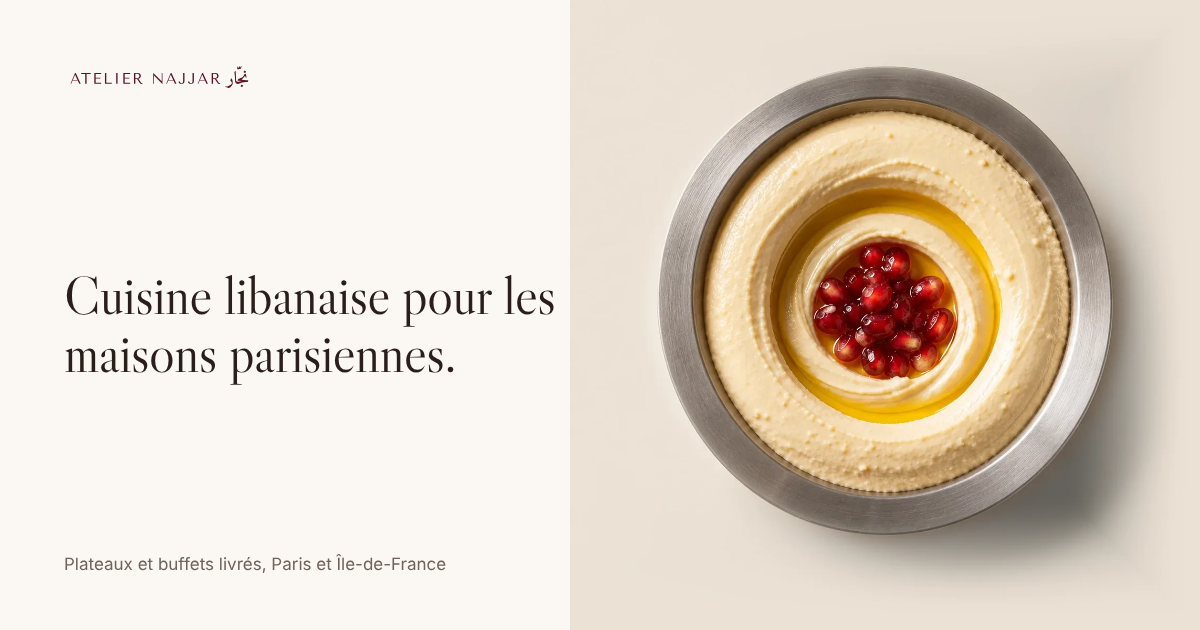
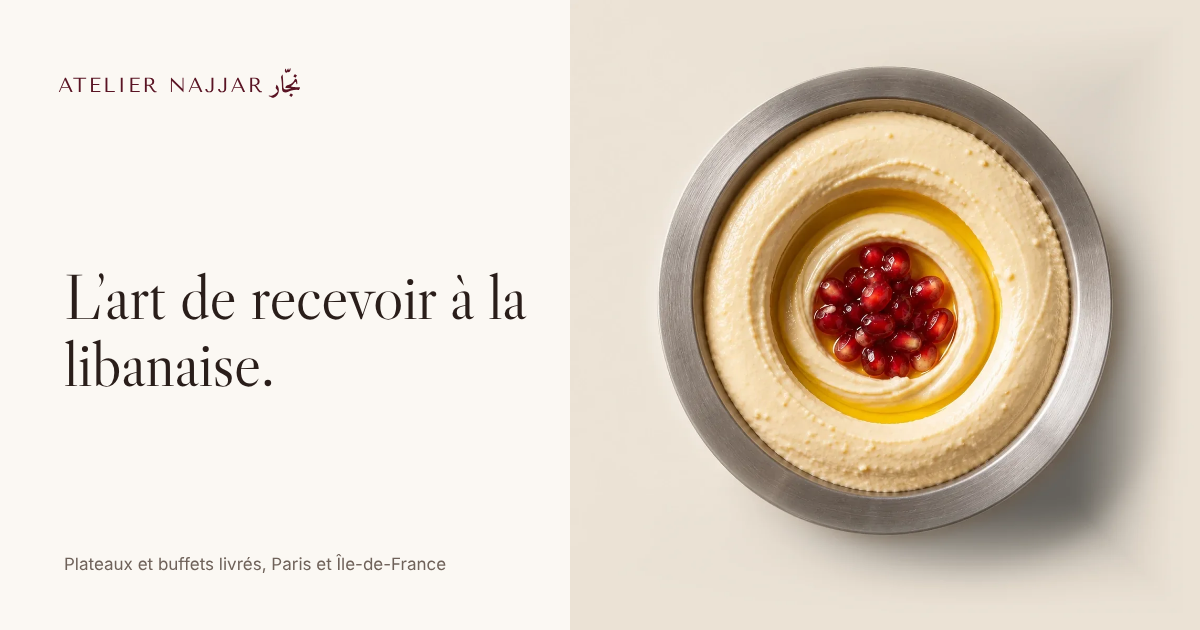
Textes ouverts aux particuliers comme aux entreprises
Nouveau titre « L’art de recevoir à la libanaise », accroche bureau et domicile,
formules et Maison reformulées, société facultative, image de partage régénérée.

Claude-Session: https://claude.ai/code/session_019j86bniTc8T7tZrnjTg8MX

Changed region(s): [[0.0308, 0.4222, 0.4625, 0.5127], [0.0308, 0.5429, 0.37, 0.6333], [0.0308, 0.1206, 0.2467, 0.1508]]

diff --git a/index.html b/index.html
@@ -3,21 +3,21 @@
 <head>
 <meta charset="UTF-8">
 <meta name="viewport" content="width=device-width, initial-scale=1">
-<title>Atelier Najjar · Traiteur libanais pour les maisons parisiennes</title>
-<meta name="description" content="Plateaux et buffets libanais préparés à la commande et livrés prêts à servir, de 10 à 100 personnes, à Paris et en Île-de-France. Plus de dix ans d'expérience dans la restauration parisienne.">
+<title>Atelier Najjar · Traiteur libanais à Paris</title>
+<meta name="description" content="Traiteur libanais à Paris : mezzés, salades et bouchées préparés pour chaque commande et livrés dressés, prêts à servir, pour les entreprises comme pour les particuliers. De 10 à 100 convives, Paris et Île-de-France.">
 <link rel="canonical" href="https://ateliernajjar.fr/">
 <meta name="theme-color" content="#FBF8F3">
 
 <meta property="og:type" content="website">
 <meta property="og:locale" content="fr_FR">
 <meta property="og:site_name" content="Atelier Najjar">
-<meta property="og:title" content="Atelier Najjar · Cuisine libanaise pour les maisons parisiennes">
-<meta property="og:description" content="Plateaux et buffets libanais livrés prêts à servir, de 10 à 100 personnes, à Paris et en Île-de-France. Devis sous 24 heures.">
+<meta property="og:title" content="Atelier Najjar · L’art de recevoir à la libanaise">
+<meta property="og:description" content="Plateaux et buffets libanais livrés prêts à servir, au bureau comme à la maison. De 10 à 100 convives, à Paris et en Île-de-France.">
 <meta property="og:url" content="https://ateliernajjar.fr/">
 <meta property="og:image" content="https://ateliernajjar.fr/og-image.png">
 <meta property="og:image:width" content="1200">
 <meta property="og:image:height" content="630">
-<meta property="og:image:alt" content="Atelier Najjar, cuisine libanaise pour les maisons parisiennes">
+<meta property="og:image:alt" content="Atelier Najjar, l’art de recevoir à la libanaise">
 <meta name="twitter:card" content="summary_large_image">
 
 <link rel="icon" href="favicon.svg" type="image/svg+xml">
@@ -151,6 +151,7 @@ nav a:hover { color: var(--bordeaux); }
 .contact .status, .contact .rgpd { text-align: center; margin-left: auto; margin-right: auto; }
 .contact .rgpd { margin-top: 18px; font-size: 11px; }
 form .f { margin-bottom: 28px; }
+.opt { text-transform: none; letter-spacing: 0; }
 form label { display: block; font-size: 11px; letter-spacing: .12em; text-transform: uppercase; color: var(--gris); margin-bottom: 6px; }
 form input, form select, form textarea {
   width: 100%; font: 17px/1.4 var(--sans); color: var(--encre);
@@ -230,9 +231,9 @@ footer a:hover { color: var(--bordeaux); }
 <main id="contenu">
   <section class="hero" aria-labelledby="titre">
     <div class="wrap">
-      <div class="grid"><h1 id="titre">Une table libanaise à la hauteur des grandes maisons.</h1></div>
+      <div class="grid"><h1 id="titre">L’art de recevoir à la libanaise.</h1></div>
       <div class="grid hero-bottom">
-        <p>Mezzés, salades et bouchées préparés pour chaque commande et livrés dressés, du déjeuner d’équipe à la présentation en showroom. Pour 10 à 100 convives, à Paris et en Île-de-France.</p>
+        <p>Mezzés, salades et bouchées préparés pour chaque commande et livrés dressés, prêts à servir. Au bureau comme à la maison, pour vos réunions, réceptions et fêtes de famille, de 10 à 100 convives, à Paris et en Île-de-France.</p>
         <a class="cta" href="#contact">Demander une proposition</a>
       </div>
     </div>
@@ -241,7 +242,7 @@ footer a:hover { color: var(--bordeaux); }
         <li><strong>Une cuisine de famille</strong>des recettes libanaises transmises, préparées dans notre cuisine parisienne</li>
         <li><strong>Une présentation soignée</strong>des plats dressés, prêts à poser sur table, sans service à prévoir</li>
         <li><strong>Un seul interlocuteur</strong>Jad suit votre demande, de la proposition à la livraison</li>
-        <li><strong>À l’heure convenue</strong>livraison à Paris et en Île-de-France, au créneau choisi</li>
+        <li><strong>À l’heure convenue</strong>au bureau ou à domicile, à Paris et en Île-de-France</li>
       </ul>
     </div>
   </section>
@@ -256,9 +257,9 @@ footer a:hover { color: var(--bordeaux); }
     <div class="wrap grid">
       <h2 class="label">La Maison</h2>
       <div class="content">
-        <p class="big">L’Atelier prépare les recettes du Liban avec l’exigence qu’on réserve aux grandes tables, et les livre avec la discrétion qu’attendent les maisons.</p>
+        <p class="big">L’Atelier prépare les recettes du Liban avec l’exigence qu’on réserve aux grandes tables, et les livre avec le soin qu’on attend d’une maison.</p>
         <div class="cols">
-          <p>Derrière l’Atelier, plus de dix ans dans la restauration parisienne, au service de maisons exigeantes. Nous savons ce qu’un déjeuner de direction ou une présentation en showroom exige : ponctualité, présentation irréprochable, aucun imprévu.</p>
+          <p>Derrière l’Atelier, plus de dix ans dans la restauration parisienne. Entreprises, maisons de mode ou particuliers, nous savons ce que réussir une réception exige : ponctualité, présentation irréprochable, aucun imprévu.</p>
           <p>Chaque commande est préparée pour vous, à partir de produits choisis. Les plats arrivent dressés, prêts à être posés sur table. Un seul interlocuteur, Jad, suit votre demande du premier échange à la livraison.</p>
         </div>
       </div>
@@ -297,17 +298,17 @@ footer a:hover { color: var(--bordeaux); }
         <div class="formules-cols">
           <div class="formule">
             <h3>Essentiel</h3>
-            <p class="pour">Déjeuners d’équipe et réunions</p>
+            <p class="pour">Réunions, déjeuners d’équipe, repas en famille</p>
             <p class="desc">Une sélection de mezzés, une salade et des bouchées de la maison, dressés sur plateaux.</p>
           </div>
           <div class="formule">
             <h3>Signature</h3>
-            <p class="pour">Déjeuners de direction et showrooms</p>
+            <p class="pour">Réceptions, anniversaires, déjeuners de direction</p>
             <p class="desc">La carte élargie : nos mezzés signature, deux salades et un large choix de bouchées.</p>
           </div>
           <div class="formule">
             <h3>Prestige</h3>
-            <p class="pour">Lancements et rendez-vous d’exception</p>
+            <p class="pour">Grandes occasions, lancements, fêtes privées</p>
             <p class="desc">Un menu composé sur mesure avec Jad, des créations de saison, une présentation en buffet.</p>
           </div>
         </div>
@@ -342,7 +343,7 @@ footer a:hover { color: var(--bordeaux); }
           <div class="hp" aria-hidden="true"><label>Ne pas remplir <input type="text" name="_gotcha" tabindex="-1" autocomplete="off"></label></div>
           <div class="duo">
             <div class="f"><label for="f-nom">Nom</label><input id="f-nom" name="nom" autocomplete="name" required></div>
-            <div class="f"><label for="f-societe">Société</label><input id="f-societe" name="societe" autocomplete="organization"></div>
+            <div class="f"><label for="f-societe">Société <span class="opt">(facultatif)</span></label><input id="f-societe" name="societe" autocomplete="organization"></div>
           </div>
           <div class="duo">
             <div class="f"><label for="f-email">Email</label><input id="f-email" type="email" name="email" autocomplete="email" required></div>
